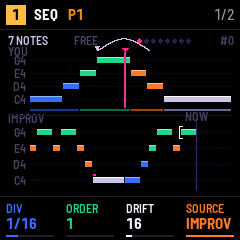
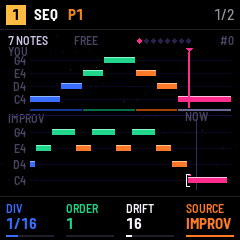
IMPROV starts with no phrase: silent until taught, the screen says REC TO TEACH

diff --git a/tests/unit/gen_test.c b/tests/unit/gen_test.c
@@ -1357,6 +1357,9 @@ static q_pattern *mimic_setup(int model, const uint8_t *notes, const uint8_t *ga
     return pt;
 }
 
+/* a 7-note phrase: C4 D4 E4 G4 E4 D4 C4 */
+static const uint8_t M7_NOTE[7] = { 60, 62, 64, 67, 64, 62, 60 }, M7_GAP[7] = { 2, 1, 1, 2, 1, 1, 4 };
+
 /* the notes step k plays; their number */
 static int mplay(q_pattern *pt, int k, uint8_t out[4])
 {
@@ -1372,9 +1375,7 @@ static void mimic_defaults(void)
 {
     const q_mimic *m = &mimic_setup(8, 0, 0, 0)->mimic;
     assert(sizeof(q_mimic) == 69);
-    static const uint8_t n[7] = { 60, 62, 64, 67, 64, 62, 60 }, g[7] = { 2, 1, 1, 2, 1, 1, 4 };
-    assert(m->n == 7 && m->order == 1 && m->drift == 16 && m->loop == 0 && m->seed == 0);
-    for (int i = 0; i < 7; i++) assert(m->ev[i][0] == n[i] && m->ev[i][1] == g[i]);
+    assert(m->n == 0 && m->order == 1 && m->drift == 16 && m->loop == 0 && m->seed == 0);
 }
 
 static void mimic_in_order(void)
@@ -1465,7 +1466,7 @@ static void mimic_fallback(void)
 
 static void mimic_drift(void)
 {
-    q_pattern *pt = mimic_setup(8, 0, 0, 0);
+    q_pattern *pt = mimic_setup(8, M7_NOTE, M7_GAP, 7);
     pt->mimic.drift = 127;
     unsigned places = 0;
     int jumped = 0;
@@ -1488,7 +1489,7 @@ static void mimic_run(q_pattern *pt, int steps, uint8_t *notes)
 
 static void mimic_loop(void)
 {
-    q_pattern *pt = mimic_setup(8, 0, 0, 0);
+    q_pattern *pt = mimic_setup(8, M7_NOTE, M7_GAP, 7);
     pt->mimic.drift = 64; pt->mimic.loop = 8;
     uint8_t a[24];
     mimic_run(pt, 24, a);
@@ -1497,7 +1498,7 @@ static void mimic_loop(void)
 
 static void mimic_seed(void)
 {
-    q_pattern *pt = mimic_setup(8, 0, 0, 0);
+    q_pattern *pt = mimic_setup(8, M7_NOTE, M7_GAP, 7);
     pt->mimic.drift = 64; pt->mimic.seed = 5;
     uint8_t a[64], b[64], c[64];
     mimic_run(pt, 64, a);
@@ -1518,7 +1519,7 @@ static void mimic_seed(void)
 
 static void mimic_silent(void)
 {
-    q_pattern *pt = mimic_setup(8, 0, 0, 0);
+    q_pattern *pt = mimic_setup(8, M7_NOTE, M7_GAP, 7);
     uint8_t o[4];
     G.mimic.listen = 1;
     for (int k = 0; k < 16; k++) assert(mplay(pt, k, o) == 0);
@@ -1546,7 +1547,7 @@ static void mimic_kit(void)
 
 static void mimic_shrunk(void)
 {
-    q_pattern *pt = mimic_setup(8, 0, 0, 0);
+    q_pattern *pt = mimic_setup(8, M7_NOTE, M7_GAP, 7);
     pt->mimic.drift = 0;
     uint8_t o[4];
     for (int k = 0; k < 40 && G.mimic.cur != 6; k++) mplay(pt, k, o);

diff --git a/app/seq.c b/app/seq.c
@@ -42,7 +42,7 @@ void project_defaults(q_project *p)
             pt->marbles = (q_marbles){ 1, 8, 0, 64, 0, 0, 64, 64, 0, 48, 2, { 0, 0 }, 2 };
             pt->life = (q_life){ 2, 48, 0, 0, 70, 1, 1, 0 };
             pt->orbits = (q_orbits){ 48, 3, { 8, 6, 5, 3 }, { 0, 0, 0, 0 }, { 0, 2, 4, 7 } };
-            pt->mimic = (q_mimic){ 7, 1, 16, 0, 0, { { 60, 2 }, { 62, 1 }, { 64, 1 }, { 67, 2 }, { 64, 1 }, { 62, 1 }, { 60, 4 } } };
+            pt->mimic = (q_mimic){ 0, 1, 16, 0, 0, { { 0 } } };   /* no phrase: silent until LISTEN */
             pt->tonnetz = (q_tonnetz){ 48, 4, 2, 0, 1, 0, 1, 1, (uint16_t)(TZ_R | TZ_L << 2 | TZ_R << 4 | TZ_L << 6) };
             pt->chords = (q_chords){ 48, 4, 2, 0, 1, { CH_MAKE(0, CS_TRIAD), CH_MAKE(5, CS_TRIAD), CH_MAKE(3, CS_TRIAD), CH_MAKE(4, CS_TRIAD) } };
             pt->lanes.note = 48;

diff --git a/app/scene_mimic.c b/app/scene_mimic.c
@@ -214,6 +214,7 @@ void mimic_band(const q_miview *v, int32_t oy)
         }
     }
     p3d_draw(oy);
+    if (!m->n && !v->listen) glo_text(120, oy + (MV_PH0 + MV_PH1) / 2, &FONT_XS, "REC TO TEACH", MV_TXT, 0);
     float hx;
     if (m->n && mv_head(v, &hx)) {              /* the reading head */
         cv_rect((int32_t)hx - 1, oy + MV_PH0 - 2, 2, MV_PH1 - MV_PH0 + 4, PINK3[1]);

diff --git a/app/docs/MANUAL.md b/app/docs/MANUAL.md
@@ -983,7 +983,7 @@ goes on from there. The result sounds like your phrase, rearranged.
 - **DRIFT** is the chance of jumping anywhere in the phrase instead.
 - **LOOP** 1–16 starts the improvisation again every LOOP steps, the same way each time: a riff. FREE never repeats.
 - The white keys 1–8 show where in the phrase IMPROV is reading, in eighths; in LISTEN, how full the phrase is.
-- A new pattern knows C4 D4 E4 G4 E4 D4 C4.
+- A new pattern has no phrase: IMPROV stays silent and the screen says `REC TO TEACH`.
 - **PRESET** draws again: another improvisation from the same phrase, at once.
 
 ![IMPROV: the phrase above (YOU) in four coloured quarters, the improvisation below (IMPROV) scrolling from the NOW line](img/source-mimic.png "IMPROV")
